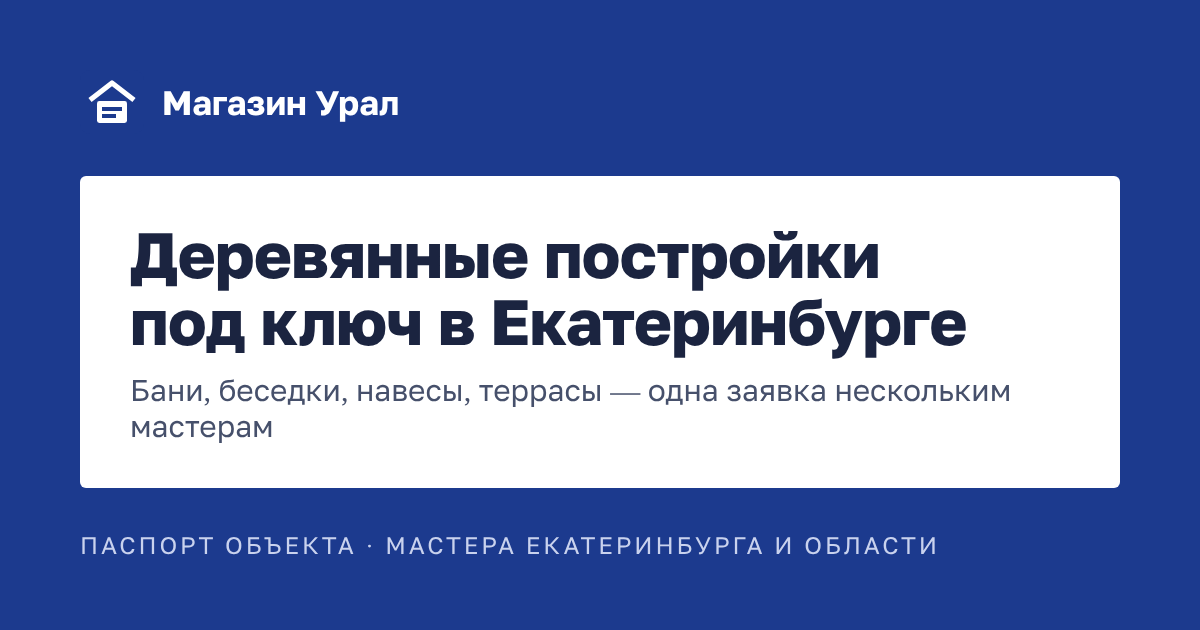
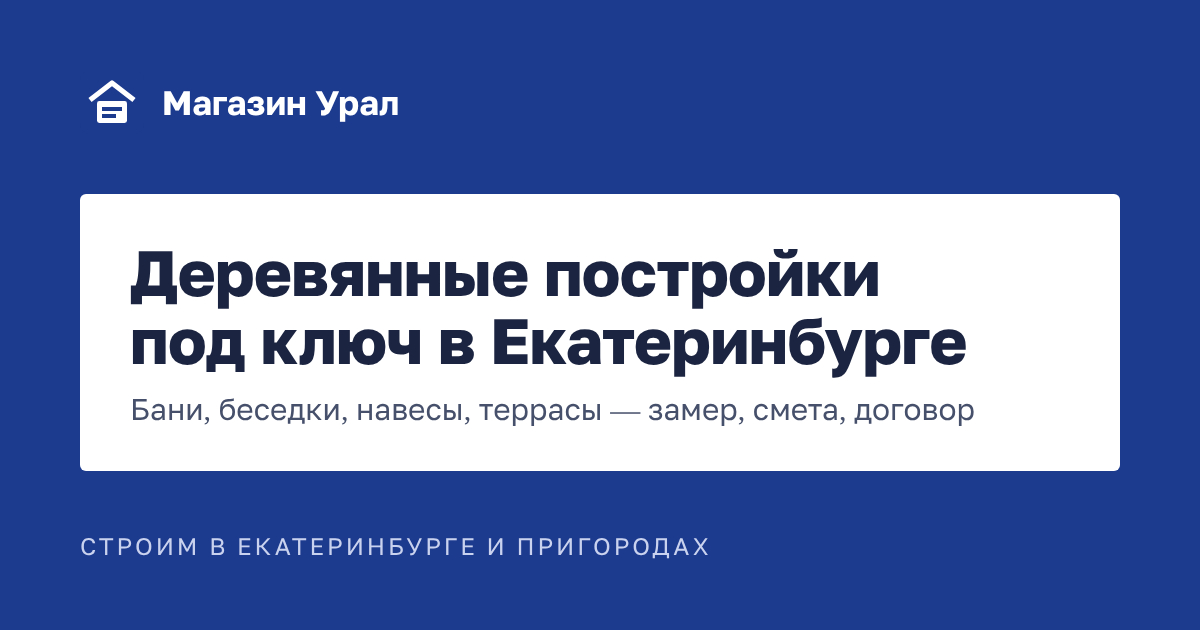
Чек-лист для коммерческих страниц: цели касания 48 px, дата обновления, картинка 1200×600 для Twitter, аудит расширен
Аудит коммерческих страниц теперь проверяет head целиком, иерархию заголовков,
ответы FAQ 2–4 предложения, 3+ внутренних ссылок со статьёй, 2–3 внешних,
выделение ключевых фраз, списки, дату обновления и число призывов.
OG-картинки переписаны на голос компании.

Claude-Session: https://claude.ai/code/session_01PWuzRQmsKdyrVNDFC6kpZk

diff --git a/assets/css/site.css b/assets/css/site.css
@@ -94,10 +94,10 @@ p { margin: 0; }
 .logo__text b { font-size: 1.05rem; font-weight: 700; letter-spacing: -0.01em; }
 .logo__text small { font-size: 0.78rem; color: var(--frame-ink-2); white-space: nowrap; }
 .nav { position: relative; }
-.nav__toggle { list-style: none; display: none; align-items: center; gap: 8px; cursor: pointer; min-height: 44px; padding: 0 12px; border: 1.5px solid oklch(1 0 0 / 0.28); border-radius: var(--r); font-weight: 600; }
+.nav__toggle { list-style: none; display: none; align-items: center; gap: 8px; cursor: pointer; min-height: 48px; padding: 0 12px; border: 1.5px solid oklch(1 0 0 / 0.28); border-radius: var(--r); font-weight: 600; }
 .nav__toggle::-webkit-details-marker { display: none; }
 .nav ul { list-style: none; margin: 0; padding: 0; display: flex; gap: 4px; }
-.nav a { display: block; white-space: nowrap; color: var(--frame-ink); text-decoration: none; padding: 10px 10px; border-radius: 4px; font-weight: 500; font-size: 0.95rem; }
+.nav a { display: flex; align-items: center; min-height: 48px; white-space: nowrap; color: var(--frame-ink); text-decoration: none; padding: 10px 10px; border-radius: 4px; font-weight: 500; font-size: 0.95rem; }
 .nav a:hover { background: oklch(1 0 0 / 0.1); }
 /* на широком экране <details> всегда открыт */
 @media (max-width: 1240px) {
@@ -134,7 +134,7 @@ p { margin: 0; }
 .tabs ul { list-style: none; display: flex; flex-wrap: wrap; gap: 8px; margin: 0; padding: 0; }
 .tabs a {
   display: inline-flex; align-items: center; gap: 8px; white-space: nowrap;
-  min-height: 40px; padding: 0 12px; border-radius: 2px;
+  min-height: 48px; padding: 0 12px; border-radius: 2px;
   background: var(--board); border: 1px solid var(--rule); color: var(--ink);
   text-decoration: none; font-size: 0.93rem; font-weight: 500;
   transition: border-color 0.2s var(--ease), background-color 0.2s var(--ease);
@@ -278,7 +278,7 @@ p { margin: 0; }
 .logo--foot { color: var(--frame-ink); margin: 0; }
 .foot__cols { display: grid; grid-template-columns: repeat(3, minmax(0, 1fr)); gap: 24px; }
 .foot ul { list-style: none; padding: 0; margin: 0; display: grid; gap: 0; align-content: start; }
-.foot a { display: inline-block; padding: 8px 0; min-height: 40px; color: var(--frame-ink-2); text-decoration: none; }
+.foot a { display: inline-flex; align-items: center; min-height: 48px; color: var(--frame-ink-2); text-decoration: none; }
 .foot a:hover { color: var(--frame-ink); text-decoration: underline; }
 @media (max-width: 860px) {
   .foot__in { grid-template-columns: 1fr; }
@@ -362,11 +362,19 @@ button, input, select, textarea { font-family: inherit; }
 .crumbs a, .crumbs span { display: inline-block; padding: 12px 0; }
 .crumbs ol { padding-top: 6px; }
 
-/* цели касания от 40–48 px (docs/on-page-seo.md, п. 12) */
+/* цели касания от 48×48 px (docs/on-page-seo.md, п. 12) */
 .logo { min-height: 48px; }
-.dir__head { display: inline-flex; align-items: center; min-height: 40px; }
+.dir__head { display: inline-flex; align-items: center; min-height: 48px; }
 .dir__item ul { gap: 0; margin-top: 2px; }
-.dir__item ul a { display: inline-flex; align-items: center; min-height: 40px; }
-.norms__table a { display: inline-flex; align-items: center; min-height: 40px; }
+.dir__item ul a { display: inline-flex; align-items: center; min-height: 48px; }
+.norms__table a { display: inline-flex; align-items: center; min-height: 48px; }
 .useful { padding: 8px 0 56px; }
 .useful h2 { margin-bottom: 16px; }
+.skip { min-height: 48px; display: inline-flex; align-items: center; padding: 0 16px; }
+.field input, .field select { min-height: 48px; }
+.crumbs a, .crumbs span { padding: 0; min-height: 48px; display: inline-flex; align-items: center; }
+.crumbs ol { padding-top: 0; }
+.toc a { min-height: 48px; display: inline-flex; align-items: center; padding: 0; }
+.hub a { display: inline-flex; align-items: center; min-height: 48px; }
+.agree a { display: inline-block; padding: 16px 0; margin: -16px 0; }
+.updated { max-width: 44rem; margin-top: 20px; font-size: 0.9rem; color: var(--ink-3); }

diff --git a/_build/audit.py b/_build/audit.py
@@ -48,7 +48,8 @@ def check(path):
         issues.append(f"description {len(desc)} (150–160)")
     if len(h1) != 1:
         issues.append(f"h1: {len(h1)}")
-    for need in ("og:title", "og:image", "twitter:card", 'rel="icon"', "apple-touch-icon", '"BreadcrumbList"', '"HomeAndConstructionBusiness"'):
+    for need in ('<html lang="ru">', '<meta charset="utf-8">', 'name="viewport"', 'rel="canonical"', "og:description", "og:url",
+                 "og:type", "twitter:image", "og:title", "og:image", "twitter:card", 'rel="icon"', "apple-touch-icon", '"BreadcrumbList"', '"HomeAndConstructionBusiness"'):
         if need not in t and not (path == "/" and need == '"BreadcrumbList"'):
             issues.append(f"нет {need}")
     if h1:
@@ -63,11 +64,47 @@ def check(path):
             issues.append(f"FAQ {faq_n} (4–8)")
         if faq_n and '"FAQPage"' not in t:
             issues.append("нет FAQPage")
+    # п. 3: иерархия заголовков без пропусков
+    prev = 0
+    for lvl in (int(x) for x in re.findall(r"<h([1-6])[\s>]", t)):
+        if lvl > prev + 1:
+            issues.append(f"пропуск заголовка h{prev}→h{lvl}")
+            break
+        prev = lvl
+    # п. 5: ответ FAQ — 2–4 предложения
+    for a in re.findall(r'<div class="faq__item"><h3>.*?</h3><p>(.*?)</p>', t, re.S):
+        k = len([x for x in re.split(r"(?<=[.!?…])\s+", text_of(a).strip()) if x])
+        if not 2 <= k <= 4:
+            issues.append(f"ответ FAQ {k} предл. (2–4)")
+    # п. 7: ни одного «здесь», «подробнее»
+    for a in re.findall(r"<a [^>]*>(.*?)</a>", t, re.S):
+        if text_of(a).strip().lower() in {"здесь", "тут", "подробнее", "читать далее", "по ссылке", "ссылка"}:
+            issues.append(f"анкор «{text_of(a).strip()}»")
     if is_section:
         if n < 600:
             issues.append(f"слов {n} (600+)")
         if '"Service"' not in t:
             issues.append("нет Service")
+        art = "".join(re.findall(r'<section class="article"[^>]*>(.*?)</section>', t, re.S))
+        body_links = art + "".join(re.findall(r'<section class="faq".*?</section>', t, re.S))
+        internal = set(re.findall(r'<a href="(/[^"#]*)"', body_links))
+        external = len(re.findall(r'<a href="https?://[^"]+" target="_blank" rel="noopener"', body_links))
+        if len(internal) < 3:
+            issues.append(f"внутренних ссылок в тексте {len(internal)} (3–5)")
+        if not any(u.startswith("/stati/") for u in internal):
+            issues.append("нет ссылки на статью")
+        if not 2 <= external <= 3:
+            issues.append(f"внешних ссылок {external} (2–3)")
+        if "<b>" not in art:
+            issues.append("нет выделенных ключевых фраз")
+        elif art.count("<b>") > 6:
+            issues.append(f"жирного {art.count('<b>')} (умеренно, до 6)")
+        if "<ul>" not in art and "<ol>" not in art:
+            issues.append("нет списков")
+        if '<p class="updated">' not in t:
+            issues.append("нет даты обновления")
+        if t.count('href="#zayavka"') < 3:
+            issues.append("меньше 3 призывов к заявке")
     if is_post:
         if n < 1500:
             issues.append(f"слов {n} (1500+)")

diff --git a/_build/build.py b/_build/build.py
@@ -25,13 +25,13 @@ sys.path.insert(0, str(Path(__file__).resolve().parent))
 from data.site import SITE, HEADER_SECTIONS, WHEN_OPTIONS, AREA
 from data.sections import SECTIONS
 from data.listings import LISTINGS
-from data.texts import TEXTS, LEADS, FAQ
+from data.texts import TEXTS, LEADS, FAQ, UPDATED
 from data.articles import ARTICLES
 from data.seo import SEO
 from data import norms as N
 
 ROOT = Path(__file__).resolve().parent.parent
-VER = "8"  # меняйте при правке css/js
+VER = "9"  # меняйте при правке css/js
 
 BY_KEY = {s["key"]: s for s in SECTIONS}
 
@@ -197,7 +197,7 @@ def head(title, desc, path, index, schema=(), og_type="website"):
 <meta name="twitter:card" content="summary_large_image">
 <meta name="twitter:title" content="{e(title)}">
 <meta name="twitter:description" content="{e(desc)}">
-<meta name="twitter:image" content="{img}">
+<meta name="twitter:image" content="{SITE['base_url']}/assets/img/og-twitter.png">
 <link rel="icon" href="/favicon.svg" type="image/svg+xml">
 <link rel="icon" href="/favicon-32.png" sizes="32x32" type="image/png">
 <link rel="apple-touch-icon" href="/apple-touch-icon.png">
@@ -403,6 +403,11 @@ def section_page(section, sub=None):
               "areaServed": [{"@type": "City", "name": c} for c in AREA]}]
     if faq:
         schema.append(faq_ld(faq))
+    upd = UPDATED.get(path)
+    if upd:
+        schema.append({"@context": "https://schema.org", "@type": "WebPage", "url": SITE["base_url"] + path,
+                       "name": h1, "dateModified": upd, "inLanguage": "ru", "publisher": {"@id": ORG_ID}})
+    updated_html = f'<p class="updated">Текст обновлён <time datetime="{upd}">{ru_date(upd)}</time></p>' if upd and text else ""
     body = f"""{head(title, desc, path, index, schema)}{header()}
 <main id="main">
   <div class="page">
@@ -418,6 +423,7 @@ def section_page(section, sub=None):
   {lead_form(section['key'])}
   <div class="page">
     {article}
+    {updated_html}
     {faq_block(faq)}
     <p class="cta-line">Не нашли ответ или хотите смету? <a href="#zayavka">Оставьте заявку</a> — перезвоним и рассчитаем.</p>
     {read}
@@ -503,7 +509,7 @@ def norms_page():
         cards.append(f"""<article class="passport spot" data-norm="{n['key']}"{"" if i == 0 else " hidden"}>
   <header class="passport__bar"><span>Паспорт места</span><span class="passport__num">{e(N.SOURCE)}</span></header>
   <div class="passport__body">
-    <h3 class="passport__title">{e(n['name'])}</h3>
+    <h2 class="passport__title">{e(n['name'])}</h2>
     <table class="passport__table"><tbody>{rows}</tbody></table>
     <p class="spot__note">{e(n['note'])}</p>
     <div class="passport__foot"><a class="btn btn--frame" href="#zayavka" data-object="{e(n['name'])}">Хочу такую же</a>{link}</div>

diff --git a/_build/data/texts.py b/_build/data/texts.py
@@ -17,6 +17,7 @@ from pathlib import Path  # noqa: E402
 
 FAQ = {}
 SEO_OVERRIDES = {}
+UPDATED = {}  # url → ГГГГ-ММ-ДД, дата последней правки текста (модуль: UPDATED или DEFAULT_UPDATED)
 
 for _i in sorted(pkgutil.iter_modules([str(Path(__file__).parent)]), key=lambda m: m.name):
     if _i.name.startswith("texts_"):
@@ -25,3 +26,6 @@ for _i in sorted(pkgutil.iter_modules([str(Path(__file__).parent)]), key=lambda 
         TEXTS.update(getattr(_m, "TEXTS", {}))
         FAQ.update(getattr(_m, "FAQ", {}))
         SEO_OVERRIDES.update(getattr(_m, "SEO", {}))
+        _d = getattr(_m, "DEFAULT_UPDATED", None)
+        UPDATED.update({u: _d for u in getattr(_m, "TEXTS", {}) if _d})
+        UPDATED.update(getattr(_m, "UPDATED", {}))
